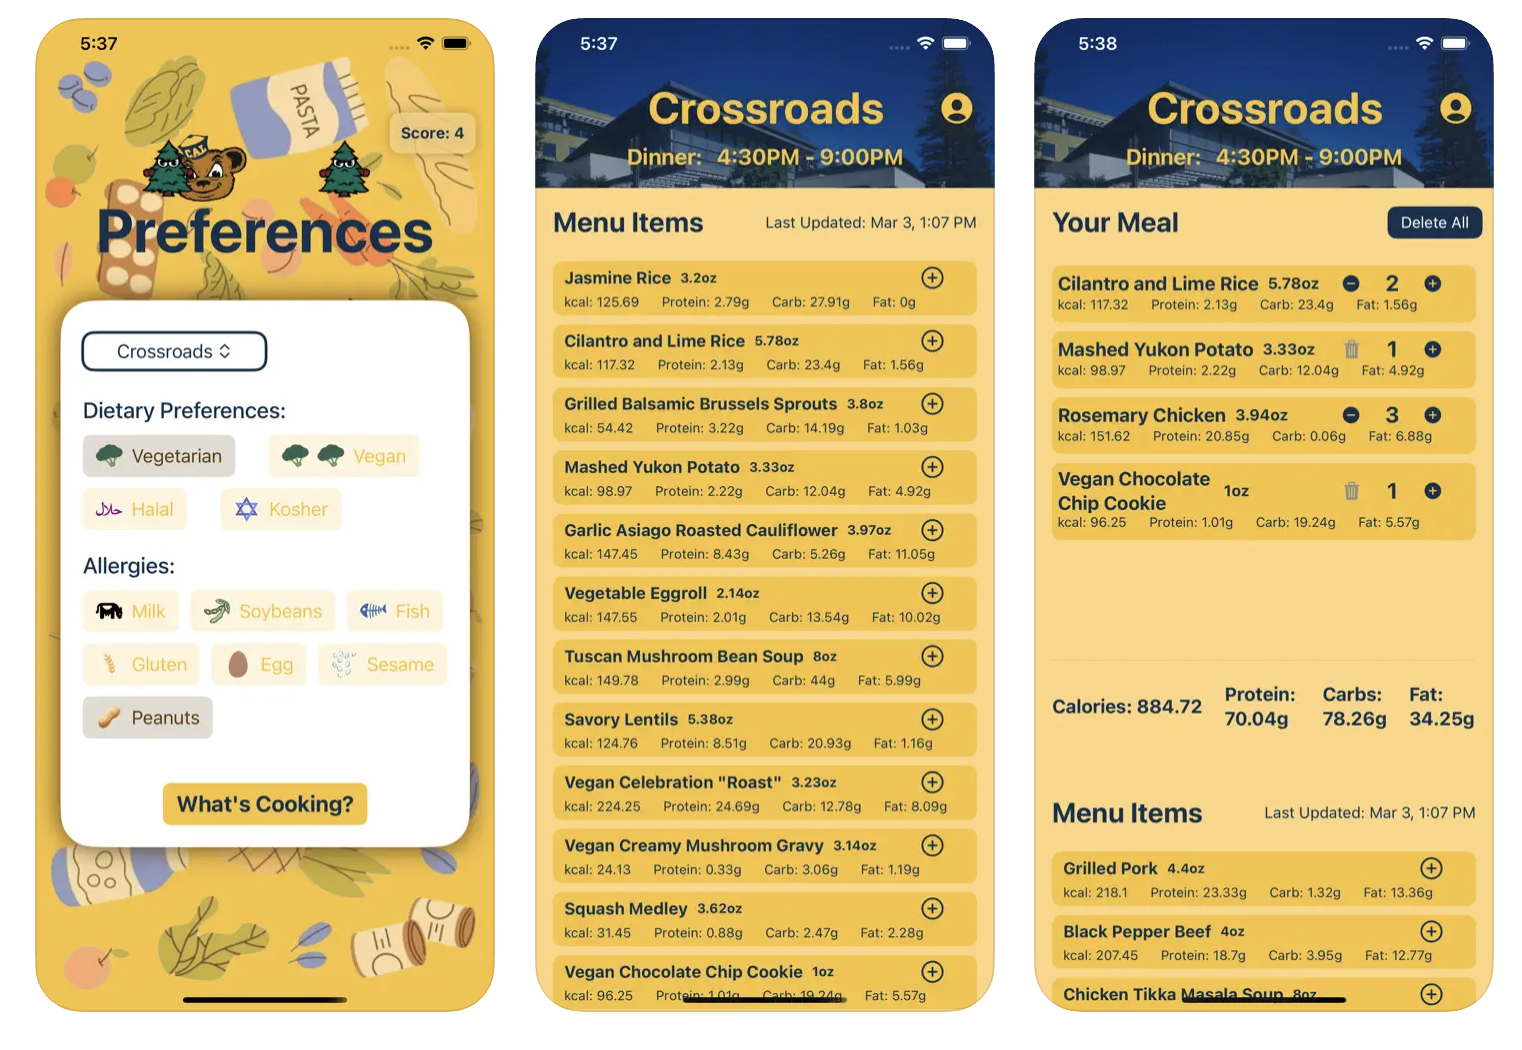
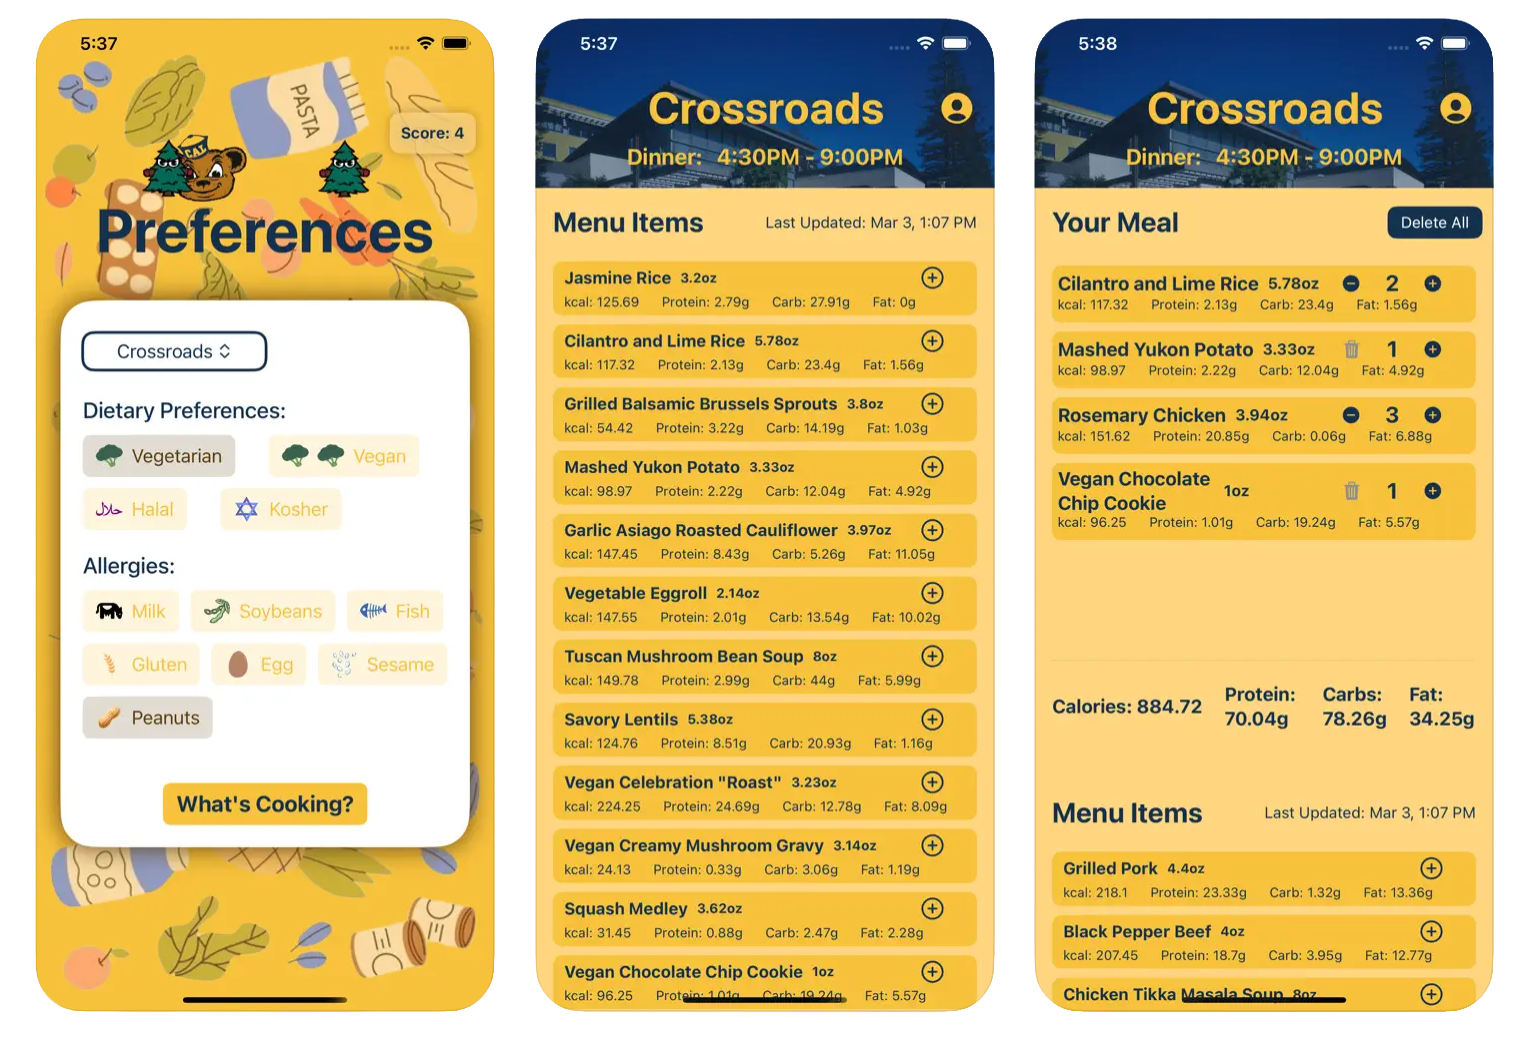
changed the oski picture

diff --git a/writings.html b/writings.html
@@ -81,7 +81,7 @@
     <main class="container">
       <h1><a class="back-link" href="index.html">Back</a>Writings</h1>
       <p class="description">
-        a tokenized version of some of my thoughts
+        a discrete version of my thoughts
       </p>
 
       <ul>
